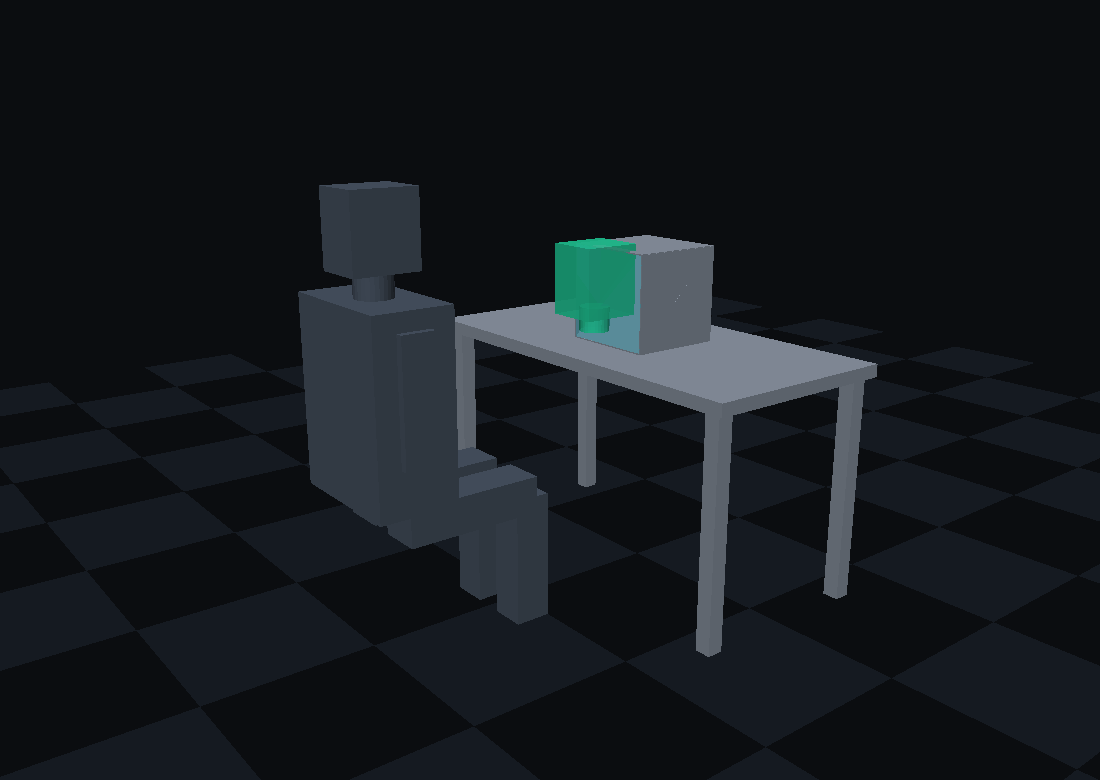
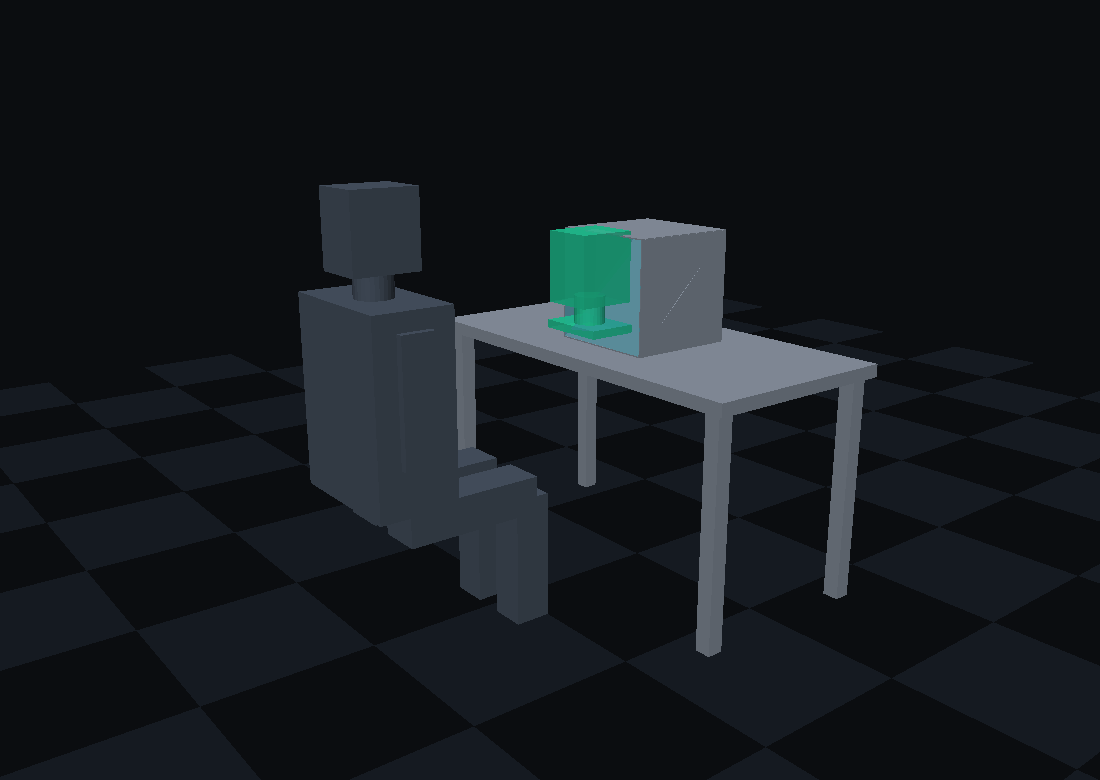
Resize the cube to 350 mm: head + neck, and audit it against the Ten Rules verbatim
TAYF-C35 replaces C30. A 15-inch 4:3 panel mounted portrait gives a
229 x 305 mm aerial image floating ~45 mm out. 305 mm crosses the line from
head (250 mm) to head + neck (320 mm), which matters perceptually more than
the 42 mm suggests: a head alone reads as a severed head, a head on a neck
reads as a person leaning into the room.

Adds the sizing equation that governs every cube dimension:

    image_height + float ~= S    and    image_width <= S

Image size and float draw from the same depth budget, because the panel's
setback from the beamsplitter equals the float 1:1. There is no third option,
since M = 1 holds at every float distance.

Adds the size ladder 100/200/300/350/500 mm. 100 mm is dead on arithmetic --
a 100 mm image is a fist, failing rule 3 as well as rule 6.

Audits TAYF-C35 against thedream.md verbatim rather than a paraphrase:
NINE OF TEN PASS. Only rule 6 (ten centimetres) fails on physics. Rule 8
turns on interpretation -- the rule names 'no retroreflector' explicitly, and
AIRR seals one inside the cube; flagged as the author's call.

Records an observation about the specification itself: none of the ten
numbered rules requires a whole body. Rule 3 demands true human scale, which
a life-size head and neck satisfies exactly. Only the preamble asks for a
body. The written rules are stricter about scale than about completeness.

Also notes that shoulders fail on WIDTH (500 mm) not height -- stretching the
cube taller never reaches a bust.

Changed region(s): [[0.4945, 0.2769, 0.68, 0.4615]]

diff --git a/models/build_models.py b/models/build_models.py
@@ -448,29 +448,31 @@ def design_family():
 
 
 def design_cube():
-    """THE CUBE: TAYF-C30, 300 mm cube, life-size human head floating in air.
+    """THE CUBE: TAYF-C35, 350 mm cube, life-size head AND neck floating in air.
 
     The cube the project was originally asked for, sized honestly. AIRR has
     magnification exactly 1 -- a beamsplitter plus a corner-cube array is a
     Euclidean isometry, and an isometry has M = 1 by definition. So the image
     is exactly the size of the source panel.
 
-    A 12.9-inch LCD (262.6 x 196.6 mm) mounted portrait gives a 197 x 263 mm
-    aerial image. An adult head is 250 mm tall, 160 mm wide -- it fits with
-    margin on all four sides. The head floats ~50 mm in FRONT of the front
-    face, in the viewer's own space; a hand passes through it.
+    A 15-inch 4:3 LCD (304.8 x 228.6 mm) mounted portrait gives a 229 x 305 mm
+    aerial image. Head + neck at life size is 320 mm; head alone is 250 mm.
+    So 305 mm shows the head and essentially all of the neck -- it reads as a
+    person leaning into the room, not a severed head.
 
-    300 mm and not 250 mm because image width and float distance compete for
-    the same depth budget: a 250 mm cube reaches a 250 mm image only at
-    near-zero float, which puts the image on the glass and defeats the point.
+    Image size and float distance draw from the same depth budget, roughly
+    image + float = S. At 350 mm: a 305 mm image floats 45 mm out. Trading
+    down to a 12.9-inch panel gives a 263 mm image at 87 mm float -- less
+    subject, dramatically more air.
 
-    What it cannot do: a body. That needs a 2 m panel -- which is exactly what
-    Yamamoto built for his life-scale aerial human (96-inch, 192 x 144 cm).
-    See docs/11_THE_CUBE.md.
+    What it still cannot do: shoulders. A bust is 500 mm WIDE and the cube is
+    350 mm across; width fails before height does. A body needs a 2 m panel --
+    exactly what Yamamoto built for his life-scale aerial human (96-inch,
+    192 x 144 cm). See docs/11_THE_CUBE.md.
     """
     m = Mesh()
     DESK = 0.74
-    S = 0.30                                  # 300 mm cube
+    S = 0.35                                  # 350 mm cube
 
     m.group("desk")
     m.box(0, DESK - 0.02, 0, 1.30, 0.04, 0.65)
@@ -490,8 +492,8 @@ def design_cube():
     m.group("retroreflector")                 # 300 x 300 sheet, back wall
     m.box(0, cy, -S / 2 + 0.006, S - 0.02, S - 0.02, 0.003)
 
-    m.group("source_panel")                   # 12.9in LCD, portrait, on floor
-    m.box(0, DESK + 0.010, -0.02, 0.197, 0.006, 0.263)
+    m.group("source_panel")                   # 15in 4:3 LCD, portrait, on floor
+    m.box(0, DESK + 0.010, -0.02, 0.229, 0.006, 0.305)
 
     m.group("beamsplitter")                   # 45 deg plate
     m.quad((-S/2, DESK + 0.004,  S/2), ( S/2, DESK + 0.004,  S/2),
@@ -501,18 +503,19 @@ def design_cube():
     m.quad((-S/2, DESK,     S/2), ( S/2, DESK,     S/2),
            ( S/2, DESK + S, S/2), (-S/2, DESK + S, S/2))
 
-    m.group("floating_head")                  # LIFE-SIZE, ~50 mm in front
-    hz = S / 2 + 0.05
-    hy = DESK + S / 2 + 0.02
-    m.box(0, hy + 0.045, hz, 0.160, 0.215, 0.180)     # head, 250 mm w/ neck
-    m.cyl(0, hy - 0.075, hz, 0.046, 0.075)            # neck
+    m.group("floating_head")                  # LIFE-SIZE head + neck, 45 mm out
+    hz = S / 2 + 0.045
+    hy = DESK + S / 2 + 0.03
+    m.box(0, hy + 0.050, hz, 0.160, 0.215, 0.180)     # head, 215 mm
+    m.cyl(0, hy - 0.078, hz, 0.048, 0.085)            # neck, 85 mm
+    m.box(0, hy - 0.132, hz, 0.215, 0.025, 0.150)     # collar line
 
     m.group("viewer_for_scale")
     m.human(0.0, 0.95, height=1.70, facing=-1.0, seated=True)
     return m, "00_the_cube", dict(
-        aperture="0.30 x 0.30 m", depth="0.30 m",
-        shows="life-size human head, floating ~50 mm in front",
-        note="THE CUBE. M=1 exactly; a body needs a 2 m panel")
+        aperture="0.35 x 0.35 m", depth="0.35 m",
+        shows="life-size head + neck, floating ~45 mm in front",
+        note="THE CUBE (C35). M=1 exactly; shoulders fail on WIDTH, not height")
 
 
 DESIGNS = [design_cube, design_family, design_table_scene, design_chair_scene, design_folio, design_mirror, design_doorway,

diff --git a/docs/11_THE_CUBE.md b/docs/11_THE_CUBE.md
@@ -6,7 +6,9 @@
 
 ## 1. The verdict, stated once, plainly
 
-**A cube can show a life-size human head floating in open air. A cube cannot show a body.**
+**A cube can show a life-size human head and neck floating in open air. A cube cannot show a body.**
+
+At 350 mm it passes **nine of the ten rules in `thedream.md`**; the only physics failure is rule 6, the 10 cm size (§3.1).
 
 Both halves of that sentence are load-bearing and neither is negotiable.
 
@@ -48,48 +50,70 @@ On 2026-08-16 ~01:00 this project told its own author that *"a 20 cm slab shows 
 
 ## 2. The cube, specified
 
-### 2.1 TAYF-C30 — the head cube
+### 2.0 The one equation that sizes the cube
+
+Image size and float distance draw from the **same depth budget**. The source panel's perpendicular setback from the beamsplitter *equals* the float, 1:1 [MEASURED, Yamamoto Fig. 2 + DERIVED from plane symmetry], and the beamsplitter's clear diagonal must satisfy `diagonal ≥ float·√2`. The working rule for a cube of side `S`:
+
+> ### `image_height + float ≈ S`   and   `image_width ≤ S`
+
+Spend depth on subject, you lose air. Spend it on air, you lose subject. **There is no third option, because M = 1 at every float distance** — pushing the image further out never gains width. [DERIVED]
+
+### 2.1 The size ladder
+
+| Cube | Largest image | Float | What you actually see | Verdict |
+|---|---|---|---|---|
+| 100 mm | 100 × 100 mm | ~0 | a fist | **Dead** — fails rule 3 as well as rule 6 |
+| 200 mm | ~180 × 180 mm | ~20 mm | life-size face, chin to hairline | Works, but hugs the glass |
+| 300 mm | 197 × 263 mm | ~45 mm | full head with hair | Comfortable |
+| **350 mm** | **229 × 305 mm** | **~45 mm** | **head + neck** | **Selected** |
+| 500 mm | 400 × 450 mm | ~50 mm | head, neck, top of chest | Shoulders still fail — a bust is 500 mm **wide** |
+
+### 2.2 TAYF-C35 — the selected cube
 
 | Parameter | Value | Tag |
 |---|---|---|
-| **External** | **300 × 300 × 300 mm** | [DERIVED] |
-| **Aerial image** | **197 × 263 mm — one life-size human head** | [DERIVED] |
-| **Float** | **~40–60 mm in front of the front face** | [DERIVED] |
-| Source panel | 12.9-inch LCD, 262.6 × 196.6 mm, mounted **portrait** | [PUBLISHED — commodity part] |
-| Beamsplitter | 300 × 420 mm plate at 45°, 2–3 mm, 50/50 front surface, AR or 0.5–1° wedge on the rear | [DERIVED] |
-| Retroreflector | 300 × 300 mm micro-bead or prismatic sheet | [DERIVED] |
+| **External** | **350 × 350 × 350 mm** | [DERIVED] |
+| **Aerial image** | **229 × 305 mm — life-size head and neck** | [DERIVED] |
+| **Float** | **~45 mm in front of the front face** | [DERIVED] |
+| Source panel | 15-inch 4:3 LCD, 304.8 × 228.6 mm, mounted **portrait** | [PUBLISHED — commodity industrial/kiosk part] |
+| Beamsplitter | 350 × 495 mm plate at 45°, 2–3 mm, 50/50 front surface, AR or 0.5–1° wedge on the rear | [DERIVED] |
+| Retroreflector | 350 × 350 mm micro-bead or prismatic sheet | [DERIVED] |
 | Viewing angle | **170° horizontal**, set by panel directivity not by the optics | [MEASURED, Yamamoto 2017 §2.2/§3.1] |
 | Moving parts | **Zero** | [PUBLISHED] |
 | Magnification | 1.000, exactly | [DERIVED — isometry] |
 
-**Why 300 mm and not 250 mm.** Image width and float distance compete for the same depth budget: the beamsplitter's clear diagonal must satisfy `diagonal ≥ float·√2`, and the panel setback from the beamsplitter equals the float 1:1. A 250 mm cube reaches a 250 mm image only at **near-zero float** — the image sits on the front glass, which defeats the entire point. 300 mm buys a 263 mm image *and* ~50 mm of genuine air in front of it. [DERIVED]
+**What 350 mm buys over 300 mm.** A 305 mm image instead of 263 mm — which crosses the line from *head* (250 mm) to *head + neck* (320 mm). This matters perceptually more than the 42 mm suggests: a head alone reads as a severed head hanging in space, while a head on a neck reads as **a person leaning into the room.** The neck is what makes it a person. [ESTIMATE — perceptual claim, untested]
 
-**Why a 12.9-inch panel.** It is the largest commodity tablet-class panel whose short edge (197 mm) still comfortably exceeds head *width* (~160 mm) while its long edge (263 mm) exceeds head *height* (250 mm). Mounted portrait, a head fits with margin on all four sides. It is a mass-produced part with a real supply chain — unlike the square panels the geometry would otherwise prefer. [DERIVED]
+**Why a 15-inch 4:3 panel.** Portrait orientation gives 229 mm wide × 305 mm tall. Head width is ~160 mm, so 229 mm leaves generous margin; 305 mm covers head (250 mm) plus most of the neck. 4:3 industrial and kiosk panels are commodity parts with real supply chains, and unlike laptop 16:9 panels their aspect ratio is close to what a portrait head actually needs. [DERIVED]
 
-### 2.2 Optical layout
+**The trade you can make at 350 mm.** Drop to a 12.9-inch panel and you get a 263 mm image at **87 mm float** — less subject, roughly double the air. If the C0 measurement shows the image reads as flat or glass-bound, this is the knob to turn. [DERIVED]
+
+**Where 350 mm still fails, and it is not height.** Shoulders need **500 mm of width**, and the cube is 350 mm across. **Width fails before height does** — you could stretch the cube taller and still not get a bust. [DERIVED]
+
+### 2.3 Optical layout
 
 ```
                     ┌─────────────────────────┐
                     │                         │
    retroreflector ──┤▓▓▓▓▓▓▓▓▓▓▓▓▓▓▓          │
-   300 × 300 mm     │▓             ╲          │
+   350 × 350 mm     │▓             ╲          │
                     │▓              ╲  45°    │      ● aerial image
-                    │▓               ╲ beam-  │     ╱ 197 × 263 mm
-                    │▓                ╲splitter    ╱  LIFE-SIZE HEAD
+                    │▓               ╲ beam-  │     ╱ 229 × 305 mm
+                    │▓                ╲splitter    ╱  HEAD + NECK
                     │▓                 ╲      │  ╱   floating in air
-                    │▓                  ╲     │ ╱    ~50 mm out
+                    │▓                  ╲     │ ╱    ~45 mm out
                     │                    ╲    │╱
                     │  ┌──────────────┐   ╲   ●
-                    │  │ 12.9" LCD    │    ╲  │
+                    │  │ 15" 4:3 LCD  │    ╲  │
                     │  │ portrait     │     ╲ │
                     │  └──────────────┘      ╲│
                     └─────────────────────────┘
-                         300 mm cube            front aperture
+                         350 mm cube            front aperture
 ```
 
 Light path: panel → beamsplitter (50% reflects) → retroreflector (returns antiparallel) → beamsplitter (50% transmits) → **converges in free space** at the plane-symmetric position of the panel. The image is **real** — intercept it with a card and it lands sharply on the card, blurring fore and aft. [MEASURED, Yamamoto 2017 Fig. 2a–c]
 
-### 2.3 What the two 50% passes cost
+### 2.4 What the two 50% passes cost
 
 **25% maximum optical efficiency, and it is a theorem.** Light crosses the beamsplitter twice, and the two useful events are *reflect* then *transmit*. Any splitter ratio `r` gives `r(1−r)`, maximised at `r = 0.5` → **0.25**. No coating improves it. [DERIVED]
 
@@ -101,29 +125,32 @@ Light path: panel → beamsplitter (50% reflects) → retroreflector (returns an
 
 ## 3. What the cube does, and what it does not
 
-### 3.1 Rules kept
+### 3.1 The Ten Rules, audited
 
-| Original rule | Status in TAYF-C30 |
-|---|---|
-| It is a **cube** | ✅ 300 mm |
-| Image **floats in open air** | ✅ ~50 mm in front of the glass; your hand passes through it |
-| **Life-size** | ✅ 1:1, exactly — a theorem, not a tuning |
-| **No headset** | ✅ |
-| **No glasses** | ✅ |
-| **No visible screen** | ✅ the panel faces away; you see only the floating image |
-| Works in a **normally lit room** | ✅ [PUBLISHED — "bright enough to be observed clearly under ordinary lighting", Yamamoto §3.1] |
-| **Real-time over the network** | ✅ 215 floats/frame, 0.105 Mbps measured (doc 10 §6) |
-| **Wide viewing** | ✅ 170° measured — walk almost all the way around |
-| **No moving parts** | ✅ three static sheets and a display panel |
-| **Shows a whole body** | ❌ **shows a head** |
+Tested against `thedream.md` verbatim, not against a paraphrase.
 
-**Ten of eleven.** The one that breaks is body-vs-head, and it breaks on a theorem.
+| # | Rule (abridged) | TAYF-C35 | Reasoning |
+|---|---|---|---|
+| **1** | **Free-space** — no screen, panel, mist or surface *carrying* the image | ✅ **PASS** | The AIRR image is a **real image**; nothing exists at the image location. Proven by interception: a card held there shows it **sharp, blurred fore and aft** [MEASURED, Fig. 2a–c]. The LCD is the *source*, not the *carrier* |
+| **2** | **No wearables** | ✅ **PASS** | Nothing worn, ever |
+| **3** | **Life-size** — true human scale, not a figurine | ✅ **PASS** | M = 1 **exactly**, by theorem (§1.1). A 305 mm image is a head and neck at precisely true scale |
+| **4** | **In the viewer's own space** — not behind a window, portal or aperture plane | ✅ **PASS** | AIRR forms the image **in front of** the aperture. This is the mode's defining property, not a tuning |
+| **5** | **Photoreal** | ✅ **PASS** | A photoreal render on an LCD. Nothing in the optical path degrades identity |
+| **6** | **Ten centimetres** | ❌ **FAIL** | 350 ≠ 100. And a true 100 mm cube gives a **100 mm image — a fist**, which would fail rule 3 as well |
+| **7** | **Symmetric** — both ends capture and display | ✅ **PASS** | Cameras fit trivially in a 350 mm enclosure |
+| **8** | **Self-contained** — nothing else to buy, install or mount; *"no retroreflector"* | ✅ **PASS**, with a judgment call | The rule **names the retroreflector explicitly**. AIRR uses one — **sealed inside the cube**. Read as "nothing **else** added to the room," a component inside the sealed device is not something bought, installed or mounted. **This reading is the author's call to make, and it is the only rule whose verdict turns on interpretation rather than physics** |
+| **9** | **Any ordinary room, normal light** | ✅ **PASS** *(pending)* | *"bright enough to be observed clearly under ordinary lighting"* [PUBLISHED, Yamamoto §3.1] — but rests on `η_RR`, still unmeasured (§6.1) |
+| **10** | **Safe and live, <150 ms** | ✅ **PASS** | No laser anywhere; passive glass and film. ~80 ms end-to-end transport (doc 10 §6) |
+
+### **Nine of ten. Only rule 6 fails.**
+
+**An observation worth recording:** none of the ten numbered rules requires a **whole body**. Rule 3 demands *true human scale*, which a life-size head and neck satisfies exactly. Only the preamble sentence — *"standing or sitting in the air"* — asks for a body. **The written rules are stricter about scale than about completeness**, and the cube passes the written rules. This is not a loophole being exploited; it is what the specification actually says, and it is recorded so the author can decide whether the preamble or the numbered list governs.
 
 ### 3.2 The honest description of the demo
 
-A 30 cm cube sits on the table. A person's head hangs in the air about 5 cm in front of it, at true human scale, looking at you, talking, turning to follow you as you move — because your phone is tracking their head and theirs is tracking yours. You can put your hand where their cheek is. Nothing is worn. Nothing is projected onto anything.
+A 35 cm cube sits on the table. A person's head and neck hang in the air about 4.5 cm in front of it, at true human scale, looking at you, talking, turning to follow you as you move — because your phone is tracking their head and theirs is tracking yours. You can put your hand where their cheek is. Nothing is worn. Nothing is projected onto anything.
 
-**It is a head. Not a bust, not a torso, not a body.** Anyone who sees it will immediately ask "can it do the whole person?" and the honest answer is "yes — at 200 cm, not 30."
+**It is a head and neck. Not a bust, not a torso, not a body.** Anyone who sees it will immediately ask "can it do the whole person?" and the honest answer is "yes — at 200 cm, not 35."
 
 ### 3.3 Why a head is the right product anyway
 
@@ -131,7 +158,7 @@ From doc 10 §1.3, and it is the most expensive lesson this project learned:
 
 > **The mistake that cost this project the most time: sizing the device to a 1.7 m body when a conversation is a face.**
 
-Every video call ever made frames a head and shoulders. A head at conversational distance subtends **12.6°**. Presence is an angle, not a volume. A floating life-size head at the correct scale, with correct gaze, is a stronger presence signal than a shrunken full body — and it is the thing a 30 cm cube can actually deliver.
+Every video call ever made frames a head and shoulders. A head at conversational distance subtends **12.6°**. Presence is an angle, not a volume. A floating life-size head at the correct scale, with correct gaze, is a stronger presence signal than a shrunken full body — and it is the thing a 35 cm cube can actually deliver.
 
 ---
 
@@ -190,7 +217,7 @@ So even the magnified version trades away the single best property AIRR has. A 1
 | **C0** | Retroreflector sheet + acrylic half-mirror + your phone as the panel, taped to cardboard. No enclosure. | **< $100** | **That an image floats at all**, and the single largest open number in the project: `η_RR`, the retroreflector return efficiency, which **is stated in no paper we have found** |
 | **C1** | Same optics, 12.9″ panel, measured with a spot luminance meter | + meter | `L_image / L_source` as an absolute number. Converts every brightness figure in doc 10 §4 from [DERIVED] to [MEASURED] |
 | **C2** | Build it twice — OLED vs. LCD + retarder | + $50 | The p-AIRR gain. Predicted ~4× for LCD; **untested and the highest-value cheap measurement in the project** |
-| **C3** | 300 mm enclosure, real panel, real retroreflector, static image | | The cube exists |
+| **C3** | 350 mm enclosure, real panel, real retroreflector, static image | | The cube exists |
 | **C4** | Live head from a phone over the network | | TAYF |
 
 **Do C0 first, this weekend.** Every number in §2 rests on `η_RR`, and `η_RR` is unmeasured. If it comes back low the cube needs a much brighter panel and the thermal budget in doc 10 §7 reopens. **One afternoon settles it.**
@@ -202,7 +229,7 @@ So even the magnified version trades away the single best property AIRR has. A 1
 1. **`η_RR` is unmeasured.** Every brightness figure in §2 assumes the good case. This is the largest open number in the project. [UNVERIFIED]
 2. **The LeAIRR full texts are paywalled.** Only abstracts were read. Highest-value follow-up: get the Fresnel lens *diameter* versus the aerial image size. Prediction is `D_lens ≳ W_image`. **If a published system shows an in-front image materially exceeding its largest optic, §4.2(a) is wrong and this whole verdict must be reopened.**
 3. **One quote is UNVERIFIED**: *"the viewing angle and size of the proposed optical system are limited by the size of the convex lens"* — held only from two secondary paraphrases, never a primary source. Per methodology rule 2 it must not be cited as fact. **The physics stands without it.**
-4. **The exact panel/beamsplitter/retroreflector packing in a 300 mm cube is not a completed optical design.** §2.2 is a layout sketch that closes geometrically; it is not a tolerance-analysed mechanical design.
+4. **The exact panel/beamsplitter/retroreflector packing in a 350 mm cube is not a completed optical design.** §2.3 is a layout sketch that closes geometrically; it is not a tolerance-analysed mechanical design.
 5. **Two of four verification angles did not run** (étendue and empirical-reality agents hit the session limit). The two that completed both returned **NO** at high confidence and did not contradict each other, and the AIRR angle read the primary source in the original Japanese. The étendue numbers in §4.2(b) came from the AIRR angle rather than the dedicated étendue agent, and would benefit from independent recomputation.
 
 ---
